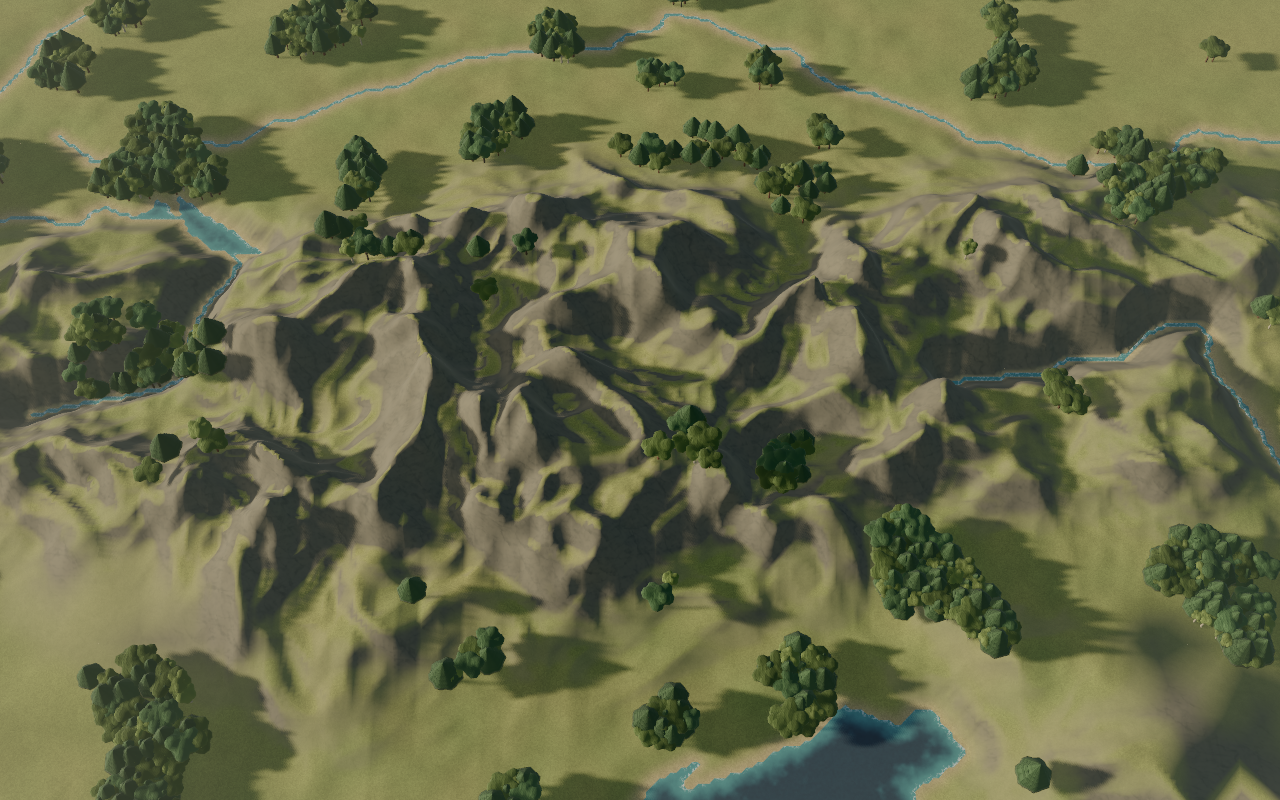
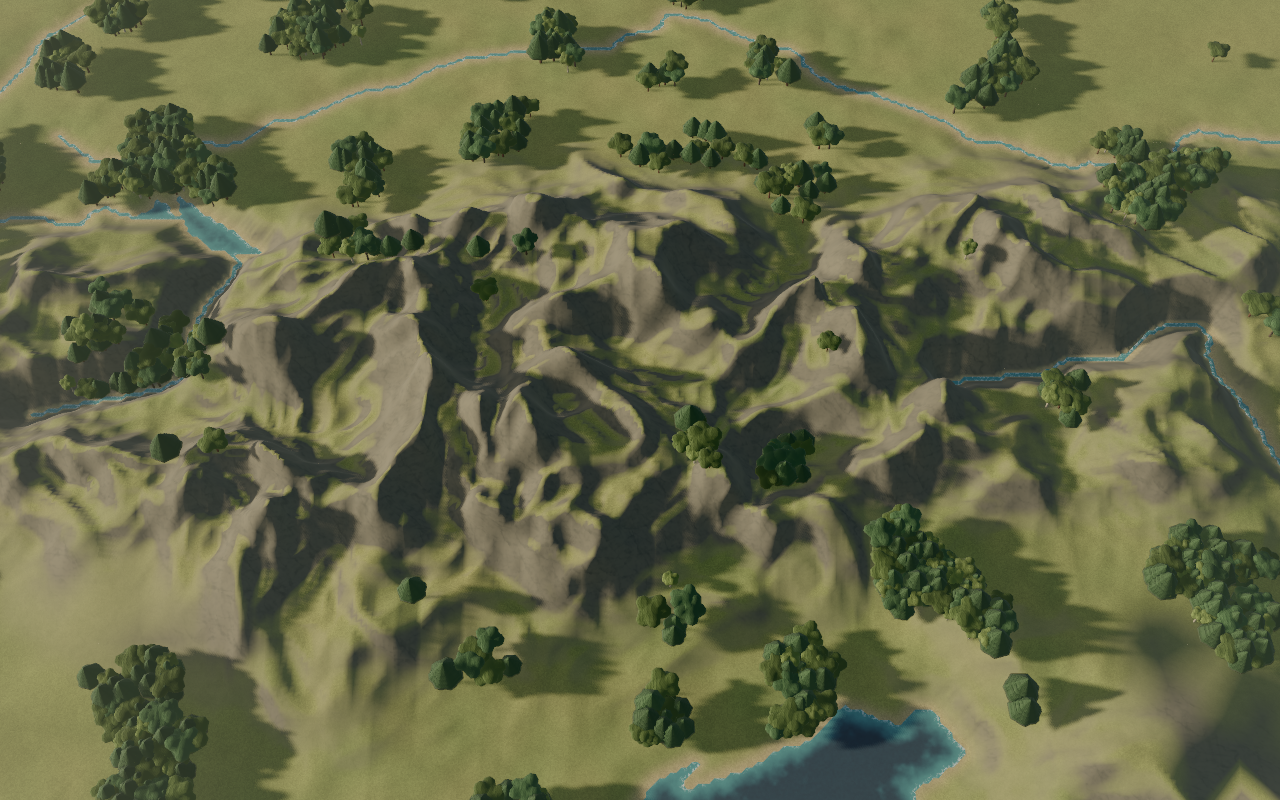
Feather campaign woodland budget boundaries

diff --git a/packages/game-renderer/src/campaign/scenery.ts b/packages/game-renderer/src/campaign/scenery.ts
@@ -148,7 +148,8 @@ export function buildCampaignWoodlandCandidates(
           kind: fringe ? "bush" : campaignTreeSpecies(hash2(seed, 5), y > temperateYKm),
           shade: hash2(seed, 6),
           yaw: hash2(seed, 7) * Math.PI * 2,
-          score: campaignNoise(x / 50 + 6, y / 50 + 3),
+          // Feather the budget cutoff while retaining coherent forest interiors.
+          score: campaignNoise(x / 50 + 6, y / 50 + 3) + (hash2(seed, 8) - 0.5) * 0.1,
           gx: Math.floor((x - field.minX) / field.cell),
           gy: Math.floor((field.maxY - y) / field.cell),
         });

diff --git a/specs/map-landscape-quality/assets/slice-07/budget-edges/README.md b/specs/map-landscape-quality/assets/slice-07/budget-edges/README.md
@@ -1,0 +1,42 @@
+# Softer budget-selection boundaries
+
+The final tree budget ranked eligible candidates by a smooth spatial score,
+creating hard selection contours independent of source woodland edges. Add a
+small deterministic per-candidate variation to that existing score. The same
+budget, lattice, regional quotas, species, sizes and source/slope/water/road/city
+exclusions remain. There is no second scatter pool or new rendering input.
+
+The [CPU probe](metrics.json) isolates budget selection on a uniformly eligible
+forest. The32000 cap and exact repeat hold;28226 placements remain,3774 change.
+Fully surrounded candidates decrease15907→13268 and isolated candidates18→234.
+This supports less abrupt selection boundaries, not a visual-quality verdict.
+A stronger variation removed too much interior continuity and was not retained.
+
+Matched [Alps before](before-alps.png) and [Italy before](before-italy.png) compare
+with current canonical [Alps](../../../../../web/shots/campaign/landscape-alps.png)
+and [Italy](../../../../../web/shots/campaign/landscape-italy.png). Camera pose,
+world and projection matrices match exactly. Submitted scenery is2454→2456 and
+1243→1240 after unchanged view filtering and footprint exclusions. [Pixel changes](pixels.json)
+prove the effect reached rendering. Both images [repeat exactly](repeat.json).
+Edge detail is visible in the [Alps before](alps-before-crop.png)/[after](alps-after-crop.png)
+and [Italy before](italy-before-crop.png)/[after](italy-after-crop.png) crops.
+
+Root and fresh independent review prefer the candidate with moderate confidence.
+Woodland margins are less compact and scattered groups connect some formerly
+empty gaps, especially in Italy. Interiors remain substantial and no obvious new
+floating trees or severe placement defects appear. Some new dark conifers are
+conspicuous. Full-size outliers, oversized-looking tree/shadow relationships,
+uniform forest floor and missing intermediate growth remain unresolved. This
+accepts a small edge improvement, not final ecological integration or reference
+quality. Final composed presentation baselines remain part of the common matrix.
+
+The12 existing woodland/scenery tests pass; no CPU assertion or floor changed.
+Static review confirms the added work is one deterministic hash per candidate,
+without changing asymptotic work, ownership, gameplay or resource lifetime.
+
+## Change ledger
+
+| Test | Previous behavior | New behavior | Why |
+| --- | --- | --- | --- |
+| landscape-alps snapshot | Compact budget-selected woodland boundaries | Slightly more irregular margins and outliers; exact repeat | Smooth score cutoff is feathered within the existing budget. **moved** |
+| landscape-italy snapshot | Isolated groups with fewer intermediate trees | Loose connecting groups and irregular edges; exact repeat | Same selection policy transfer. **moved** |

diff --git a/specs/map-landscape-quality/slices/07-ecological-placement.md b/specs/map-landscape-quality/slices/07-ecological-placement.md
@@ -47,6 +47,11 @@ Human checkpoints are non-blocking. Show the artifact, allow a short response wi
 | Categorical forest material boundary | [Forest-cover evidence](../assets/slice-07/forest-cover/README.md) accepts removal of false rock at grass/forest transitions. [Current TypeGPU coverage evidence](../assets/slice-13/coverage-shadow/README.md) proves the migrated consumer. Preserve independent cover weights before interpolation; physical tint remains unchanged. |
 | Detached campaign rock removal | [Production comparison](../assets/slice-07/campaign-rock-removal/README.md) accepts continuity without changing tree records. Generic battle/authored rocks remain; this does not supply intermediate ground detail. |
 
+The [budget-edge checkpoint](../assets/slice-07/budget-edges/README.md) adds small
+world-stable variation to final selection, softening some clump boundaries while
+preserving the existing cap and eligibility. Both production regions repeat
+exactly. Full-size outliers and missing intermediate growth remain unresolved.
+
 ## Remaining ecological quality
 
 Resolve oversized geometric conifers, isolated planted clumps, exposed slope

diff --git a/specs/map-landscape-quality/README.md b/specs/map-landscape-quality/README.md
@@ -32,8 +32,8 @@ The direction shuffle was rejected on actual images despite better isotropy.
 The [turf consumer](assets/slice-13/turf-current/README.md) now follows the
 TypeGPU camera and grass publication. Its full52-check run, exact cold boots,
 edge repeats and post-review readiness correction are scoped verification;
-material/composition quality remains open. The capture lane on5193 is now the
-forest-edge candidate. Raw whole-map retirement and its migrated production
+material/composition quality remains open. The [budget-edge pass](assets/slice-07/budget-edges/README.md) now softens
+woodland selection boundaries, with two exact regional repeats. Raw whole-map retirement and its migrated production
 water film are implemented but await browser acceptance. A separate sharper
 rock-projection control has passed CPU checks but has not been rendered.
 Inspect `throwaway/active-pickup.txt` and live processes before changing the single

diff --git a/specs/map-landscape-quality/choices.md b/specs/map-landscape-quality/choices.md
@@ -526,3 +526,12 @@ confidence medium rather than establishing final landscape acceptance.
   Wait for the next completed frame of the same generation. Retain the current
   thin, knee-height grass direction; old broad-blade screenshots must not undo
   that later user choice merely to recover a historical baseline.
+
+## Woodland budget boundaries
+
+- **Sound, moderate confidence — feather selection within the existing tree budget.**
+  Ranking only by smooth spatial noise creates hard clump boundaries unrelated
+  to the underlying cover. A small deterministic score variation admits sparse
+  outliers while retaining dense interiors. Keep the same lattice, exclusions,
+  species and size policy; this does not claim to supply understory or forest-floor
+  variation. Broader ecological integration remains open.
